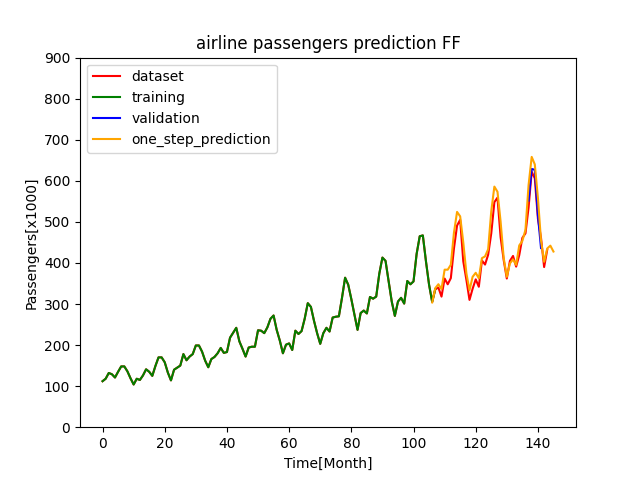
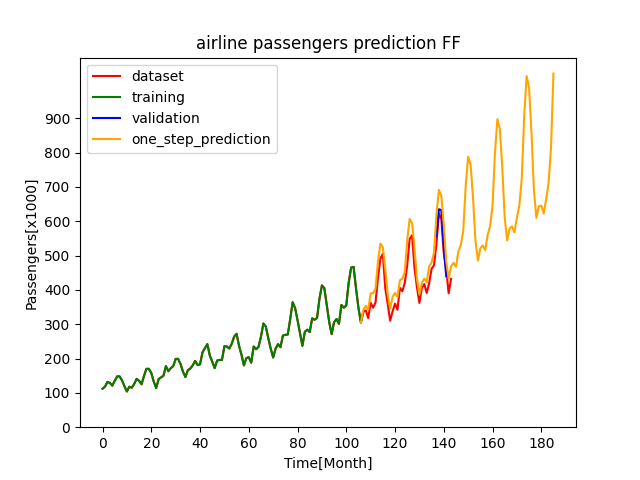
increase forecast in airlinePassengers_keras_ff

diff --git a/TimeSeriesPrediction/2_UnivariatTimeSeriesForecast/AirlinePassengers/Keras/FF/airline_passengers_keras_ff.py b/TimeSeriesPrediction/2_UnivariatTimeSeriesForecast/AirlinePassengers/Keras/FF/airline_passengers_keras_ff.py
@@ -95,7 +95,7 @@ def one_step_ahead_forecast(model, current_value, number_of_predictions):
 start_index = -1
 start_value = train_inputs[start_index]
 start_value_reshaped = start_value.reshape(1, start_value.shape[0])
-number_of_predictions = 40
+number_of_predictions = 80
 prediction_results = one_step_ahead_forecast(model, start_value_reshaped, number_of_predictions)
 
 prediction = pd.DataFrame()
@@ -109,7 +109,7 @@ plt.plot(prediction["one_step_prediction"], color="orange", label="one_step_pred
 plt.title("airline passengers prediction FF")
 plt.xlabel("Time[Month]")
 plt.ylabel("Passengers[x1000]")
-plt.xticks(range(0, 150, 20))
+plt.xticks(range(0, 200, 20))
 plt.yticks(range(0, 1000, 100))
 plt.legend(loc="upper left")
 plt.savefig("./airlinePassengers_keras_ff.png")
